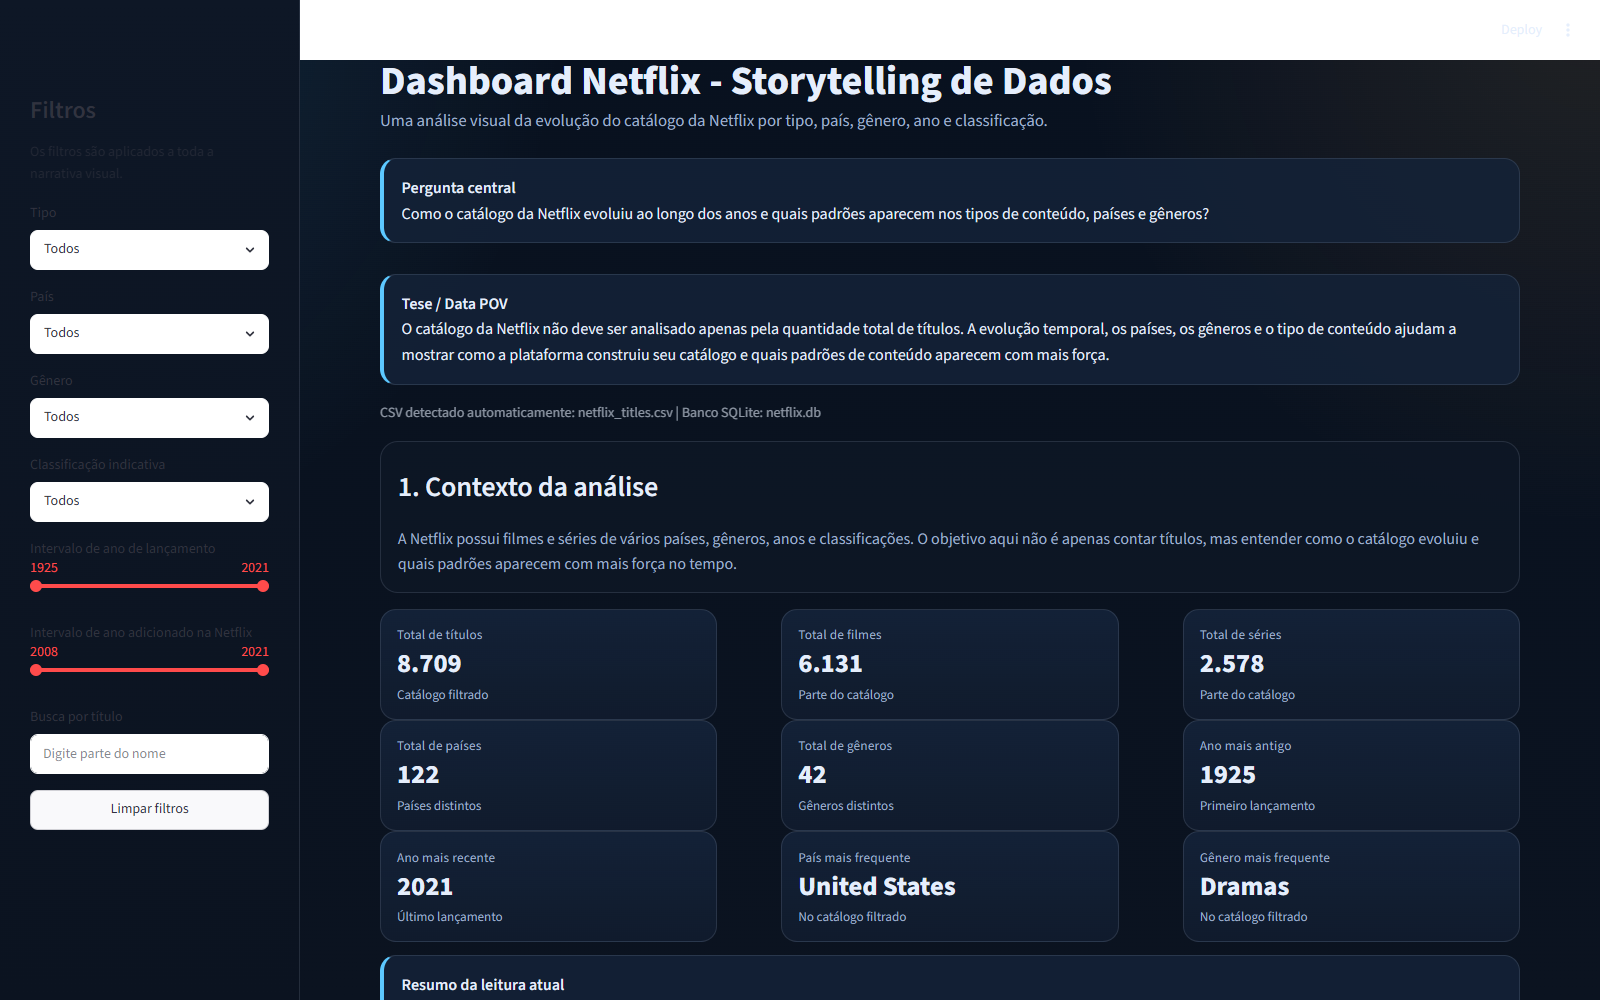
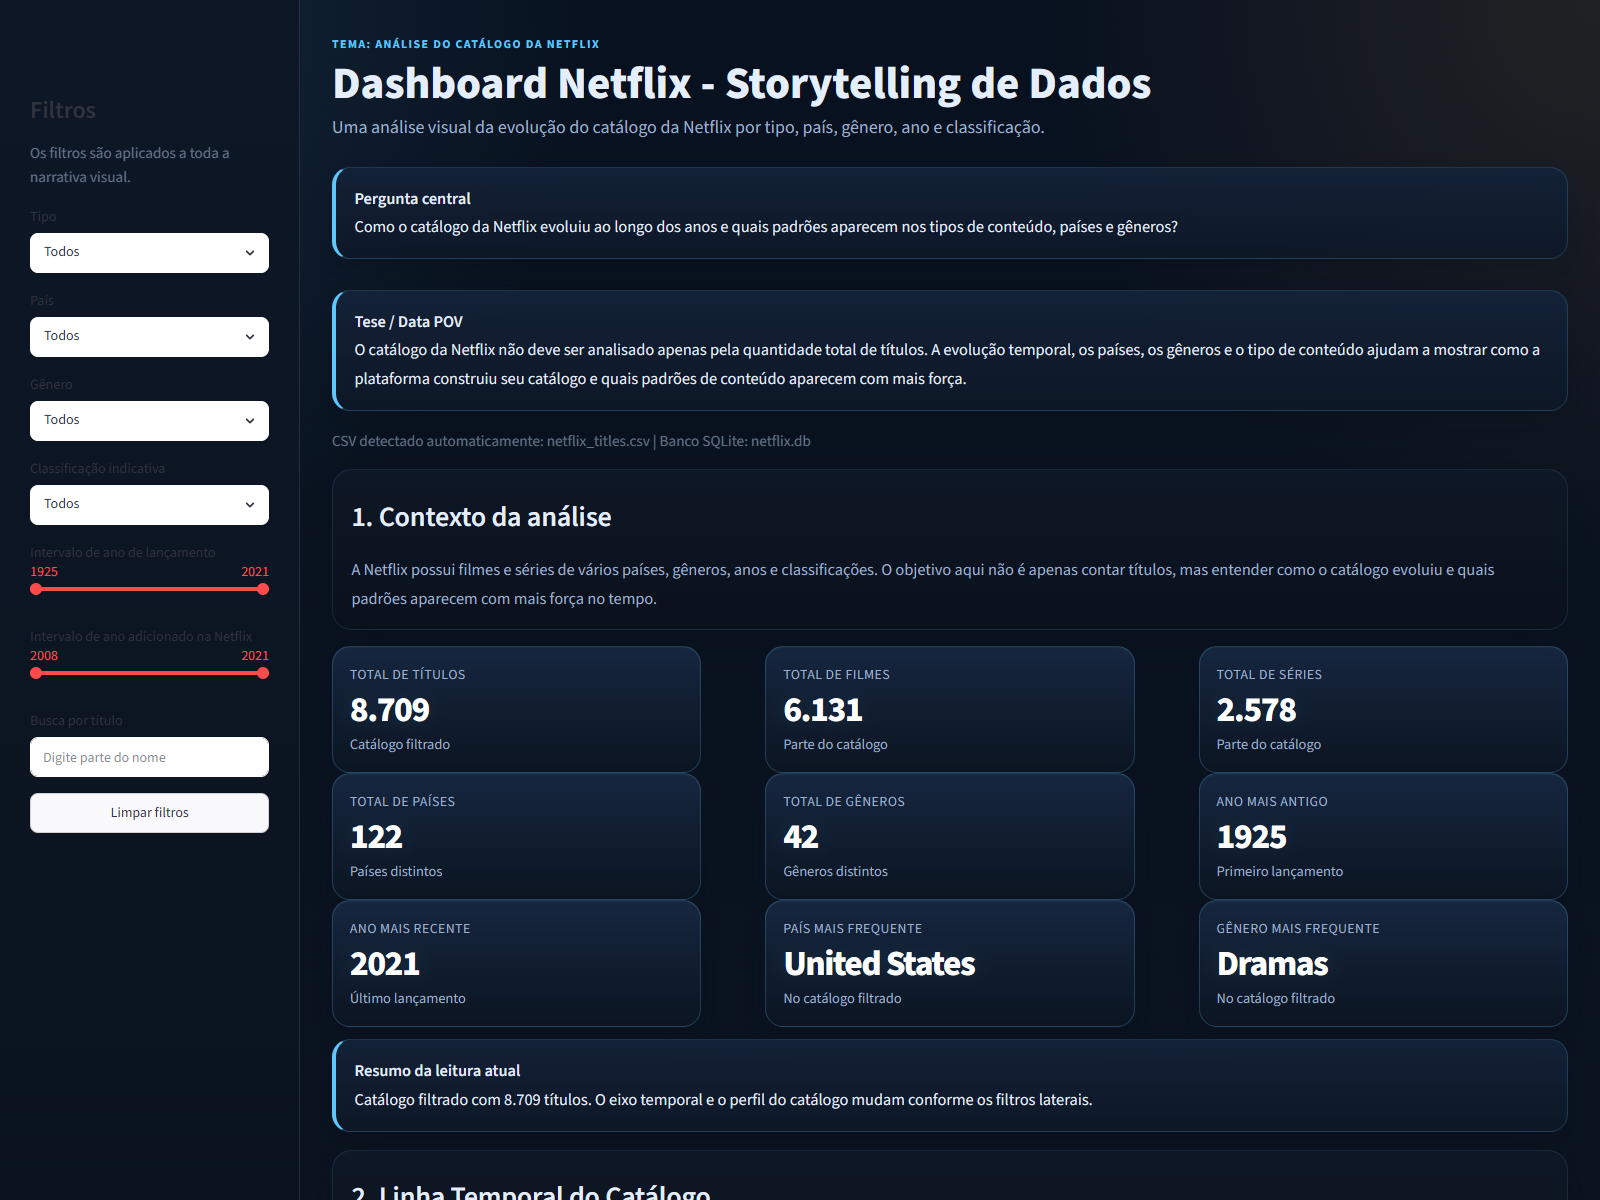
Ajusta o case do Dashboard Netflix

diff --git a/src/lib/project-cases.ts b/src/lib/project-cases.ts
@@ -14,7 +14,7 @@ export type ProjectCaseContent = {
 
 const projectCases: Record<string, ProjectCaseContent> = {
   "dashboard-netflix": {
-    title: "Dashboard Netflix - Análise de Dados",
+    title: "Dashboard Netflix - Storytelling de Dados",
     description:
       "Dashboard visual para análise do catálogo da Netflix com linha temporal, indicadores, rankings e conclusão baseada em storytelling de dados.",
     context:

diff --git a/src/lib/projects.ts b/src/lib/projects.ts
@@ -49,7 +49,7 @@ export const projects: PortfolioProject[] = [
   },
   {
     slug: "dashboard-netflix",
-    name: "Dashboard Netflix",
+    name: "Dashboard Netflix - Storytelling de Dados",
     category: "Dashboards e Dados",
     type: "Dashboard de análise de dados / storytelling",
     technologies: ["Python", "Pandas", "SQLite", "Plotly", "Streamlit", "Vercel"],